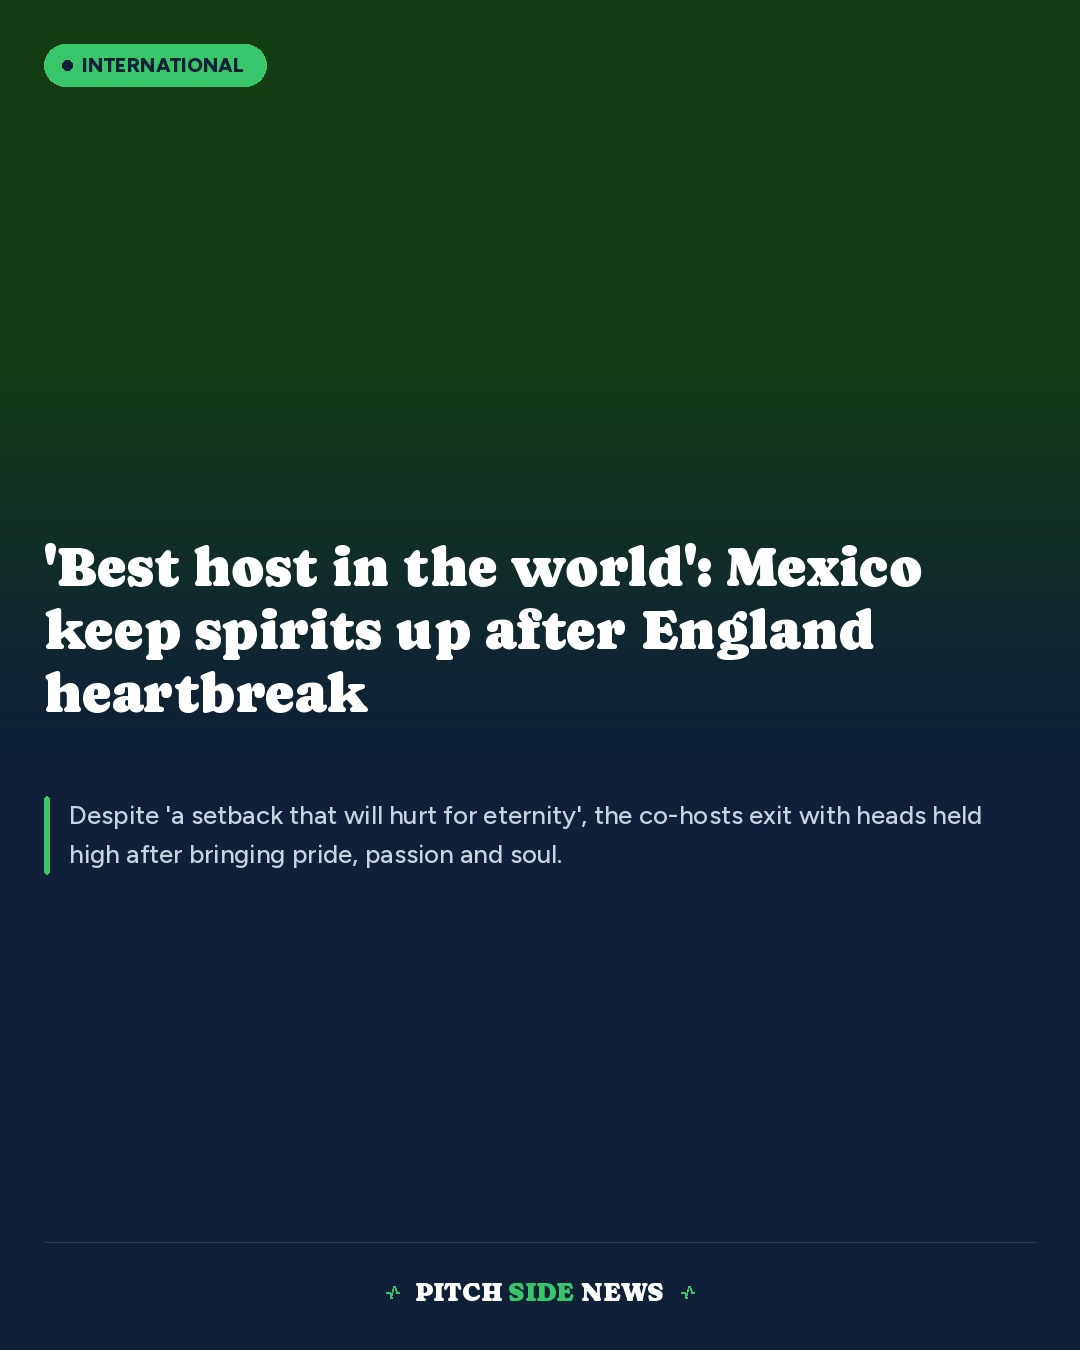
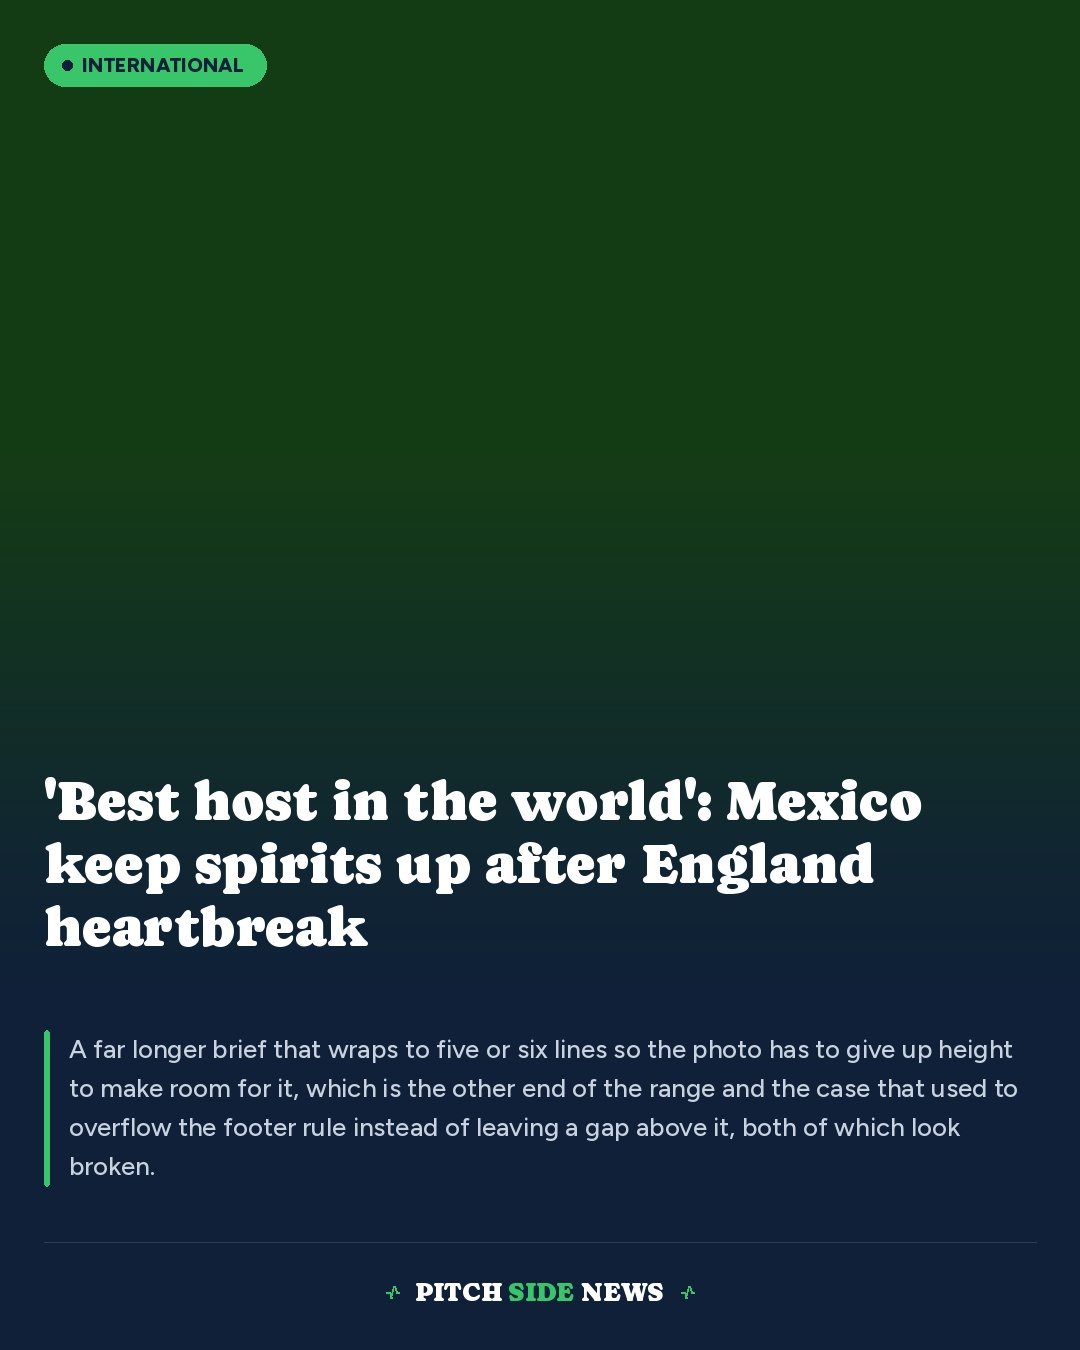
Flex the post photo height so short briefs leave no dead navy band
PHOTO_H was fixed at 760, so a two-line brief left ~420px of empty
navy between the brief and the footer rule. The photo now takes
whatever height is left once the brief and footer have taken theirs.

Self-check renders both ends of the range and asserts the band above
the footer rule is always photo, never bare navy.

Changed region(s): [[0.0306, 0.56, 0.9167, 0.7156], [0.0306, 0.4044, 0.8556, 0.5289], [0.0306, 0.7778, 0.9472, 0.8711]]

diff --git a/src/image_creator.py b/src/image_creator.py
@@ -25,10 +25,16 @@ from src.image_fetcher import fetch_story_image
 # ── Canvas ─────────────────────────────────────────────────────────────────────
 WIDTH   = 1080
 HEIGHT  = 1350
-PHOTO_H = 760
 PAD_X   = 44
 PAD_TOP = 36
 PAD_BOT = 40
+
+# The photo is the flexible element: its height is whatever is left once the
+# brief and the footer have taken theirs, so the canvas is always full. A fixed
+# PHOTO_H left ~420 px of dead navy under a short brief.
+PHOTO_H_MIN = 700          # never let a very long brief squash the photo
+BRIEF_GAP   = 56           # breathing room between brief text and footer rule
+FOOTER_H    = 32 + 36 + PAD_BOT   # hairline rule + brand line + bottom padding
 
 # ── Brand colours ──────────────────────────────────────────────────────────────
 NAVY   = (15, 32, 56)      # #0f2038
@@ -144,13 +150,22 @@ def create_post_image(
     canvas = Image.new("RGB", (WIDTH, HEIGHT), NAVY)
     draw   = ImageDraw.Draw(canvas)
 
-    # 1. Photo + scrim ──────────────────────────────────────────────────────────
+    # 1. Measure the brief first — the photo gets whatever height is left ───────
+    d_font   = _body(26, "Medium")
+    d_line_h = round(26 * 1.5)
+    d_x      = PAD_X + 5 + 20
+    d_lines  = _wrap(draw, brief_text, d_font, WIDTH - d_x - PAD_X)[:6]
+    brief_h  = d_line_h * len(d_lines)
+    photo_h  = max(PHOTO_H_MIN,
+                   HEIGHT - FOOTER_H - BRIEF_GAP - brief_h - PAD_TOP)
+
+    # 2. Photo + scrim ──────────────────────────────────────────────────────────
     bg_src = fetch_story_image(story, pexels_api_key)
     if bg_src is None:
-        bg_src = Image.new("RGB", (WIDTH, PHOTO_H), (20, 60, 20))
-    canvas.paste(_scrim(_crop_center(bg_src, WIDTH, PHOTO_H)), (0, 0))
+        bg_src = Image.new("RGB", (WIDTH, photo_h), (20, 60, 20))
+    canvas.paste(_scrim(_crop_center(bg_src, WIDTH, photo_h)), (0, 0))
 
-    # 2. Category pill — top-left, green on navy text ───────────────────────────
+    # 3. Category pill — top-left, green on navy text ───────────────────────────
     cat_font = _body(20, "ExtraBold")
     cat_text = category.upper()
     cat_w    = draw.textlength(cat_text, font=cat_font)
@@ -161,26 +176,22 @@ def create_post_image(
     _draw_lines(draw, int(PAD_X + 18 + 10 + 10), int(pill[1] + 11),
                 [cat_text], cat_font, 20, NAVY)
 
-    # 3. Headline — Caprasimo, sitting on the bottom of the photo ───────────────
+    # 4. Headline — Caprasimo, sitting on the bottom of the photo ───────────────
     h_font   = _display(56)
     h_line_h = round(56 * 1.12)
     h_lines  = _wrap(draw, title, h_font, WIDTH - PAD_X * 2)[:4]
-    _draw_lines(draw, PAD_X, PHOTO_H - 36 - h_line_h * len(h_lines),
+    _draw_lines(draw, PAD_X, photo_h - 36 - h_line_h * len(h_lines),
                 h_lines, h_font, h_line_h, WHITE)
 
-    # 4. Brief description — green rule + body copy ─────────────────────────────
-    d_font   = _body(26, "Medium")
-    d_line_h = round(26 * 1.5)
-    d_x      = PAD_X + 5 + 20
-    d_lines  = _wrap(draw, brief_text, d_font, WIDTH - d_x - PAD_X)[:6]
-    d_top    = PHOTO_H + PAD_TOP
+    # 5. Brief description — green rule + body copy (measured in step 1) ────────
+    d_top = photo_h + PAD_TOP
     draw.rounded_rectangle(
         [PAD_X, d_top, PAD_X + 5, d_top + d_line_h * len(d_lines)],
         radius=3, fill=GREEN,
     )
     _draw_lines(draw, d_x, d_top, d_lines, d_font, d_line_h, BODY)
 
-    # 5. Brand line — centred above the bottom padding ──────────────────────────
+    # 6. Brand line — centred above the bottom padding ──────────────────────────
     b_font   = _display(26)
     b_line_h = 36
     b_top    = HEIGHT - PAD_BOT - b_line_h
@@ -211,16 +222,42 @@ def save_image(img: Image.Image, path: str) -> None:
     img.save(path, format="JPEG", quality=95, optimize=True)
 
 
-if __name__ == "__main__":
-    # Self-check: renders with no network image and asserts the canvas geometry.
-    img = create_post_image(
-        title      = "'Best host in the world': Mexico keep spirits up after England heartbreak",
-        brief_text = "Despite 'a setback that will hurt for eternity', the co-hosts exit with "
-                     "heads held high after bringing pride, passion and soul.",
-        category   = "International",
-        story      = {"title": "", "description": ""},
-    )
-    assert img.size == (WIDTH, HEIGHT), img.size
-    assert img.getpixel((5, HEIGHT - 5)) == NAVY, "bottom band should be navy"
+def _demo() -> None:
+    """Renders with no network image and checks the canvas has no dead band.
+
+    The bug this guards: PHOTO_H was fixed, so a short brief left ~420 px of
+    empty navy between the brief and the footer. The photo now flexes, so the
+    band just above the footer rule must always be photo, never bare navy.
+    """
+    short = "Two lines of brief copy, the common case for a BBC summary line."
+    long  = ("A far longer brief that wraps to five or six lines so the photo "
+             "has to give up height to make room for it, which is the other end "
+             "of the range and the case that used to overflow the footer rule "
+             "instead of leaving a gap above it, both of which look broken.")
+
+    for name, brief in (("short", short), ("long", long)):
+        img = create_post_image(
+            title      = "'Best host in the world': Mexico keep spirits up after England heartbreak",
+            brief_text = brief,
+            category   = "International",
+            story      = {"title": "", "description": ""},
+        )
+        assert img.size == (WIDTH, HEIGHT), img.size
+        assert img.getpixel((5, HEIGHT - 5)) == NAVY, "bottom band should be navy"
+
+        # Walk up from the footer rule: the first non-navy row is the photo
+        # bottom. A fixed PHOTO_H put it ~420 px up; it should now be snug.
+        rule_y = HEIGHT - PAD_BOT - 36 - 32
+        y = rule_y - 1
+        while y > 0 and img.getpixel((WIDTH // 2, y)) == NAVY:
+            y -= 1
+        gap = rule_y - y
+        assert gap < 320, f"{name}: {gap}px of dead space above the footer"
+        print(f"  {name} brief → photo bottom {gap}px above the rule")
+
     save_image(img, "design_check.jpg")
     print("ok → design_check.jpg")
+
+
+if __name__ == "__main__":
+    _demo()
